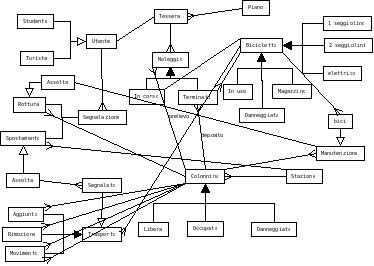
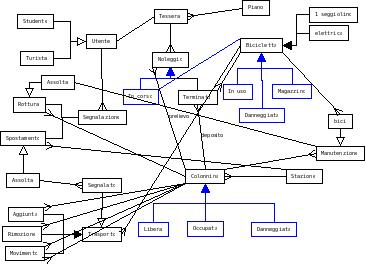
modificata analisi dei requisiti

diff --git a/Relazione/Relazione.tex b/Relazione/Relazione.tex
@@ -39,92 +39,45 @@ Permette grazie ad una tessera personale, rilasciata a chiunque ma con sconti pe
 La tessera può avere validità giornaliera, per un singolo fine settimana (sabato e domenica), oppure essere collegata ad un abbonamento di varie taglie: settimanale, mensile, trimestrale, semestrale o  annuale.\newline
 Sono presenti, oltre alle normali bici che hanno integrato un posto aggiuntivo per bambini, biciclette con pedalata assistita o aventi 2 seggiolini;\newline
 Le stazioni sono presenti in molti aree della città e sono munite di sicure automatiche antifurto. Saranno sempre presenti biciclette da noleggiare e posti per lasciare la bici noleggiata grazie ad un servizio di trasporto e le biciclette rotte verrano sostituite da biciclette nuove.\newline
-Il servizio tende ad essere automatizzato, permettendo all'abbonato di controllare facilmente se in una data stazione siano presenti biciclette o ci siano posti vuoti per depositare la bici noleggiata. Può segnalare se ci sono presenti biciclette con rotture.\newline
+Il servizio tende ad essere automatizzato e permette all'abbonato di controllare facilmente se in una data stazione siano presenti biciclette o ci siano posti vuoti per depositare la bici noleggiata. Può segnalare se ci sono presenti biciclette con rotture.\newline
 Nell'ultimo mese il servizio ha registrato più di 70 nuovi abbonamenti, con un utilizzo medio di circa 1700 noleggi giornalieri e una media di 200 richieste d'intervento al giorno (tra mancanza di bici, spazio per il deposito e rotture);\newline
 inoltre viene richiesta la composizione dei posti di ogni singola stazione (presenza biciclette, tipi disponibili e posti liberi) almeno 3000 volte ogni giorno, ma con punte di quasi 900 richieste in una singola mezz'ora (ad esempio nelle ore di punta).
 
 \section{Descrizione testuale dei requisiti e operazioni tipiche}
 %Alias analisi dei requisiti XD
 Si vuole realizzare una base di dati e una semplice applicazione web che contenga e gestisca le informazioni relative al
-bike sharing, simulando inoltre le procedure automatiche realizzate dalle colonnine di deposito delle biciclette.
+bike sharing, simulando inoltre le operazioni che è possibile eseguire tramite la colonnina.
 
-%cose dubbie-extra :
-%possibilità di query extra per le valutazioni e previsioni (tante query in più, non troppo lavoro comunque)
-
-\subsection{Requisiti}
-Sono necessarie le informazioni personali degli utenti per poterli eventualmente rintracciare :
-\begin{itemize}
- \item nome e cognome
- \item data e luogo di nascita
- \item residenza (via, numero, città, cap)
- \item email-numero telefonico
- \item se studenti è necessario il codice di matricola in caso di universitari o id della card Iostudio, rilasciata dal Ministero dell'Istruzione agli studenti delle scuole superiori. 
-\end{itemize}
-Ogni tessera identifica un solo utente e ha un singolo piano:
-\begin{itemize}%la tessera con questi attributi non va bene 
- \item codice univoco
- \item validità
- \item piano: giornaliero, weekend, settimanale, mensile, trimestrale,semestrale o annuale
-\end{itemize}
-Una tessera deve per forza avere un piano abbinato.\newline
-Agevolazioni:
-\begin{itemize}
- \item turisti, per i soli piani giornaliero o weekend (-15\% grazie ad un contributo della regione)
- \item studenti per gli abbonamenti da settimanale in su (-10\%).
-\end{itemize}
-Biciclette:
-\begin{itemize}
- \item codice identificativo
- \item tipo: normali, pedalata assistita o con 2 seggiolini
- \item stato: in uso (noleggiate e disponibili), a magazzino, danneggiate o in riparazione
-\end{itemize}
-Stazioni:
-\begin{itemize}
- \item codice
- \item posizione (luogo, via e numero)
- \item postazioni presenti (colonnine)
- \item stato attuale della colonnina (occupata, libera, tipologia di bici presente)
-\end{itemize}
-Manutenzione delle biciclette:
-\begin{itemize}
- \item cliente che ha inviato la segnalazione
- \item colonnina dove è presente la bicicletta rotta
- \item la bicicletta rotta verrà portata a riparare, nel frattempo sarà sostituita da una nuova
-\end{itemize}
-Manutenzione delle colonnine:
-\begin{itemize}
- \item il codice della colonnina da riparata
- \item la data e l'orario della riparazione
- \item una descrizione del danno presente
-\end{itemize}
+\subsection{Descrizione testuale}
+Sono necessarie le informazioni personali degli utenti per permettergli di registrarsi e comperare una tessera; saranno quindi obbligatori nome e cognome, la data e il luogo di nascita, le informazioni sulla residenza (via,numero civico,città e cap) e un'email, di aggiuntivo l'utente può inserire il suo numero telefonico per ricevere infomazioni aggiuntive.\newline
+Per potere poi usufruire di convenzioni rilasciate solo a studenti sarà necessario il codice mi matricola in caso di universitari o l'id della carta Iostudio, e le agevolazioni verrano fornite solo per validità da mensili in su.\newline
+Nel caso di turisti non è necessaria nessuna informazione aggiuntiva, ma l'agevolazione verrà fornita solo sulla validità giornaliera, weekend o settimanale.\newline
+L'utenza disporrà di una tessera personale, che verrà utilizzata per identificare l'utente in tutte le operazioni che effettuerà, questa tessera avrà una validità data dal piano presente e non potrà mai rimanere senza piano. Un utente con un piano ancora valido (attivo) potrà usufruire di tutti i servizi, mentre un utente con una tessera non più valida (piano scaduto) potrà solo comperare un nuovo piano ad un prezzo prefissato, da cui verrà tolto il 15\% per i turisti che usufruiscono dell'agevolazione e del 10\% per i studenti che usufruiscono dell'agevolazione.\newline
+Le biciclette, identificate da un codice personale, possono essere a pedalata assistita (elettriche) oppure con un seggiolino (la maggior parte), mentre in base al loro stato possono essere suddivise tra biciclette in uso, cioè che possono essere nolleggiate o che stanno venendo noleggiate, biciclette in deposito o biciclette danneggiate; lo stato di una bicicletta non sempre corrisponde alla propria posizione, infatti una bicicletta danneggiata può sia essere presente in magazzino sia in una colonnina.\newline
+Una bicicletta in uso verrà noleggiata e depositata in una colonnina, identificata da un codice numerico e dalla stazione di cui fa parte; una colonnina presenta uno stato, che può essere occupata se vi è presente una bicicletta, libera se non vi è presente una bicicletta, oppure danneggiata se la colonnina o la bicicletta presente sono daneggiate.\newline
+Una stazione é formata da più colonnine e si utilizza un numero per identificarla tra tutte le stazioni della città; una stazione avrà un proprio indirizzo per facilitare la ricerca nelle mappe, e in una specifica area della città ci possono essere anche più stazioni vicine. L'utente interaggirà con la stazione per sapere i stati delle varie colonnine presenti ma non si interesserà di quale colonnina avrà tale stato.\newline
+Il noleggio di una bicicletta, richiede che venga ricordato l'orario in cui è avvenuto il prelievo della bicicletta e in quale colonnina è stata presa, e una volta terminato l'orario e la colonnina in cui è stata depositata la bicicletta; per questo il noleggio può essere diviso in noleggi in corso, che quindi identificano i prelievi delle biciclette non ancora depositate, oppure i noleggi terminati, che hanno anche il deposito.
 
 \subsection{Operazioni tipiche}
-Operazioni comuni effettuate nella quasi totalità dei casi:
-\begin{itemize}
- \item Noleggio di una bicicletta : interessa da quale stazione e colonnina è stata prelevata la bici, l'orario di prelievo, il codice del mezzo e l'identificatore del tesserato
- \item Restituzione di una bicicletta : interessa su quale stazione e colonnina viene depositata, l'orario di deposito, il codice del mezzo e del cliente
- \item Controllo della disponibilità di biciclette o spazi liberi : interessa in quale stazione, quanti posti vuoti e quante biciclette ci sono nella stazione, in particolare che tipo di bici sono presenti
- \item Segnalazione di mancanza di bici(area vuota) o di una specifica categoria di bici, o di posti liberi(area piena) : interessa la stazione segnalata e il tipo di segnalazione; a questa segnalazione seguirà una richiesta di intervento in automatico
- \item Segnalazione di bicicletta rotta o di colonnina rotta : interessa il cliente che l'ha fatta, la stazione e colonnina da cui è stata inviata e l'orario; a questa seguirà una richiesta di intervento di riparazione in automatico
- \item Movimento di una bicicletta : interessa chi ha trasportato la bicicletta, l'orario e il numero identificativo del viaggio, il motivo del viaggio (per area piena o vuota, per riparazione della bicicletta), da dove proveniva la bici, dove è stata depositata e il codice identificativo della bici
- \item Riparazione di una bicicletta : interessa il codice identificativo della bicicletta, la data di riparazione (inizio e fine) e una descrizione del danno presente nella bicicletta
- \item Riparazione di una colonnina : interessa quale colonnina, la data e una descrizione del danno.
-\end{itemize}
-Operazioni meno comuni:
-\begin{itemize}
- \item Ogni mese andrà richiesto un resoconto dei lavori di manutenzione sulle colonnine delle aree-stazioni e sulle biciclette
- \item In casi eccezionali si può richiedere tutti gli utenti che hanno utilizzato una bici, quando e per quanti, e in che aree è stata la bici
- \item Può venire anche richiesto una lista dei mezzi danneggiati e in quali aree, e una statistica nel tempo di questi dati
-%extra \item Necessarie per la valutazione e la previsione futura saranno necessarie varie statistiche richieste mensilmente, come una statistica sui trasporti delle bici, sull'utilizzo delle aree, ecc
-\end{itemize}
+Operazioni tipiche eseguite dall'utente :
+\paragraph{Noleggio di una bicicletta} Il noleggio di una bicicletta interessa una bicicletta che ha lo stato in uso, ed sta attualmente occupando una colonnina perchè non è già in noleggio, e lascia la colonnina nello stato di libera. Questo genera un noleggio di tipo in corso, dove viene salvata la bicicletta, la colonnina di prelievo e l'orario di prelievo. Un utente può avere un singolo noleggio attivo alla volta.
+\paragraph{Deposito di una bicicletta} Il deposito di una bicicletta interessa sempre una bicicletta con lo stato in uso, e modifica un noleggio di tipo in uso in uno di tipo terminato, salvando quindi la colonnina in cui viene depositata la bicicletta e l'orario di deposito; questo porta la colonnina, che prima era nello stato libera, nello stato occupata.
+\paragraph{Controllo dello stato di una stazione o area} Il controllo dello stato implica un controllo di ogni singola colollonina, e ritorna quanti spazi, liberi e quante biciclette e di quale tipo sono presenti sulla data stazione , per l'area si cerca in tutte le stazioni di quell'area.
+\paragraph{Segnalazione di mancanza di biciclette o spazi vuoti} Una segnalazione di tipo mancanza viene chiamata dall'utente tramite il sito oppure il numero telefonico su una data stazione e comporterà uno o più trasporti per assolvere la segnalazione.
+\paragraph{Segnalazione di rottura} Una segnalazione di rottura viene chiamata dall'utente da una singola colonnina o dal sito e comporterà un ordine di manutenzione che potrà interessare la colonnina o la bicicletta.
+\par Operazioni tipiche non effettuate dall'utente :
+\paragraph{Trasporto di una bicicletta} Il trasporto può avvenire perché segnalato da un utente oppure per esigenze interne, e comporta il movimento di una bicicletta in tre modi diversi: tra due colonnine di diverse stazioni, dal magazzino ad una colonnina oppure da una colonnina al magazzino. Il trasporto di una bicicletta cambia sicuramente lo stato della colonnina interessata, e forse cambia anche lo stato della bicicletta.
+\paragraph{Manutenzione di una colonnina o di una bicicletta} La manutenzione può avviene a seguito di una segnalazione oppure può essere richiesta dall'azienda e prevede un controllo della bicicletta o della colonnina, che verrà riassunto in una descrizione dei danni presenti che sono stati riparati, e dall'orario di fine manutenzione. Si nota che la manutenzione di una bicicletta interessa la colonninna su cui è stata presente, e che per semplicità ed efficienza viene sempre controllata sia la colonnina che la bicicletta se presente.Un'operazione di matunenzione comporterà per la colonnina e la bicicletta un cambio di stato (erano daneggiate, ora non lo sono più).
+\par Operazioni dell'area amministrativa :
+\paragraph{resoconto dei lavori di manutenzione} E' visibile dall'area amministrativa un resoconto dei lavori di manutenzione alle biciclette e alle colonnine dello scorso mese. Con riportati le date e gli orari.
+\paragraph{storico di una bicicletta} Può venire richiesto dall'area amministrativa le manutenzioni di una bicicletta, come gli utenti che l'hanno noleggiata e il tempo in cui è stata noleggiata.
+\paragraph{lista dei mezzi danneggiati} Può venire richiesta una lista delle biciclette danneggiate, con la stazione e l'area in cui sono presenti.
 
 \subsection{Nuovi requisiti}
-Descrivendo le operazioni tipiche, soprattutto quelle più comuni come la segnalazione di danni o il noleggio, ci si accorge che bisogna inserire dei nuovi requisiti :
-\begin{itemize}
- \item Sarà necessario tenere traccia dello storico dei noleggi e restituzioni degli utenti per l'amministrazione, ma agli utenti interessa solo il loro stato attuale (se stanno noleggiando una bicicletta oppure no)
- \item Le Segnalazioni possono essere pendenti, quindi non ancora risolte, oppure risolte ; una segnalazione pendente comporterà unoperazione di manutentione, che sia movimento  di bici o riparazione
- \item altre
-\end{itemize}
+Dopo un'esposizione e un ragionamento sulle operazioni da eseguire, si possono delineare delle prime modifiche da effettuare alla descrizione testuale :
+\paragraph{Operazioni di diverso spessore} Si nota che operazioni quali noleggio-deposito, segnalazione, trasporto e manutentione non sono semplici operazioni unitarie, ma coinvolgono molteplici operazioni.
+\paragraph{modifica dello stato della bicicletta} Lo stato di una bicicletta non può venire rappresentato solo con in uso, in magazzino o danneggiata; Si decide di utilizzare 2 caratteristiche : lo stato della bicicletta (operativa o danneggiata) e la sua posizione (magazzino o in uso); Questo comporta un miglior rappresentazione dello stato della bicicletta.
+\paragraph{Realtà su due livelli} Si nota che si potrebbe dividere la realtà d rappresentare in due parti: una parte si occupa dello stato attuale del sistema, quindi di dove attualmente sono le bici, della presenza di collonnine vuote o piene, etc mentre un'altra si occupa dello storico di queste informazioni, quindi dei noleggi terminati, dei trasorti effettuati, delle manutenzioni, etc.
 
 \section{Progettazione concettuale}
 %
@@ -171,8 +124,8 @@ Attributi di Tessera :
 Riflettendo su Utente e Tessera decido di collegarli con una relazione.\newline
 Relazione : \textbf{Tesseramento} tra Tessera e Utente :
 \begin{itemize}
- \item da Tessera a Utente 1 : 1
- \item da Utente a Tessera 1 : 1
+ \item da Tessera a Tesseramento 1 : 1
+ \item da Utente a Tesseramento 1 : 1
 \end{itemize}
 %immagine ConTesseramento01
 Con una veloce letta dei requisiti mi accorgo che la maggior parte delle volte che ci si riferisce ad Utente in realtà ci si riferisce alla Tessera dell'Utente, quindi prendo nota che Utente potrebbe venire identificato dalla tessera che possiede, principalmente perchè la relazione Tesseramento che li unisce ha cardinalità 1 : 1.\newline
@@ -188,18 +141,58 @@ Attributi di Piano :
 Tessera e Piano sono ovviamente collegati da una relazione.\newline
 Relazione : \textbf{Abbonamento} tra Tessera e Piano :
 \begin{itemize}
- \item da Tessera a Piano 1 : 1
- \item da Piano a Tessera 0 : N
+ \item da Tessera a Abbonamento 1 : 1
+ \item da Piano a Abbonamento 0 : N
 \end{itemize}
 %immagine ConAbbonamento01
-%%%%%%%%%%%%%%%%%%%%%%%%%%%%%%%%%%%%%%%%%%%%%%%%%%%%%%%%%%fino a qui
+Per modellare la parte principale del database, cioè il noleggio di biciclette da parte degli utenti, comincio con l'entità Bicicletta.\newline
 Entità : \textbf{Bicicletta}\newline
-Attributi di \textbf{Bicicletta} :
+Attributi di Bicicletta :
 \begin{itemize}
  \item codice identificativo (chiave)
  \item tipo : normali, pedalata assistita o con 2 seggiolini
- \item stato : in uso, in magazzino, danneggiate, in riparazione
+ \item stato : in uso(noleggiata o disponibile), in magazzino, danneggiate, in riparazione
 \end{itemize}
+%immagine ConBicicletta01
+Lo stato di una bicicletta non viene rappresntato bene da un attributo, quindi prima di tutto suddivido le biciclette tra in servizio e ferme.\newline
+Generalizzazione completa esclusiva di Bicicletta : \textbf{In servizio} e \textbf{Ferme}\newline
+%immagine ConBicicletta02
+Una bicicletta in servizio è sempre o noleggiata o noleggiabile :\newline
+Generalizzazione completa esclusiva di In servizio : \textbf{In uso} e \textbf{in attesa}\newline
+%immagine ConInservizio01
+Una bicicletta è In uso lo perchè noleggiata da un utente con la sua tessera, quindi inserisco questa relazione.\newline
+Relazione : \textbf{Noleggio} tra Tessera e In uso :
+\begin{itemize}
+ \item da Tessera a Noleggio 0 : 1
+ \item da In uso a Noleggio 1 : 1
+\end{itemize}
+Un Noleggio però deve contenere anche la colonnina da cui è stata prelevata la bici, la data e l'orario di prelievo.\newline
+Attributi di Noleggio :
+\begin{itemize}
+ \item colonnina
+ \item data e ora
+\end{itemize}
+%immagine ConNoleggio01
+Allo stesso modo una bicicletta è In attesa se non noleggiata da nessun Utente, cioè è ferma sulla colonnina.\newline
+Relazione : \textbf{Posizione} tra Colonnina e In attesa :
+%non mi piace per nulla il nome della relazione
+\begin{itemize}
+ \item da Colonnina a Posizione 0 : 1
+ \item da In attesa a Posizione 1 : 1
+\end{itemize}
+%immagine ConPosizione01
+Mi accorgo che l'attributo colonnina di Noleggio in realtà è una relazione con Colonnina, il che fa diventare Noleggio una relazione tra tre entità.\newline
+Relazione : \textbf{Noleggio} tra Tessera, In uso e Colonnina :
+\begin{itemize}
+ \item da Tessera a Noleggio 0 : 1
+ \item da In uso a Noleggio 1 : 1
+ \item da Colonnina a Noleggio 1 : 1
+\end{itemize}
+%immagine ConNoleggio02
+Anche per le biciclette Ferme posso trovare una suddivisione.\newline
+Generalizzazione completa esclusiva di Ferme : \textbf{Magazzino} e 
+%%%%%%%%%%%%%%%%%%%%%%%%%%%%%%%%%%%%%%%%%%%%%%%%%%%%%%%%%%fino a qui
+
 Entità : \textbf{Stazione}\newline
 Attributi di \textbf{Stazione} :
 \begin{itemize}
